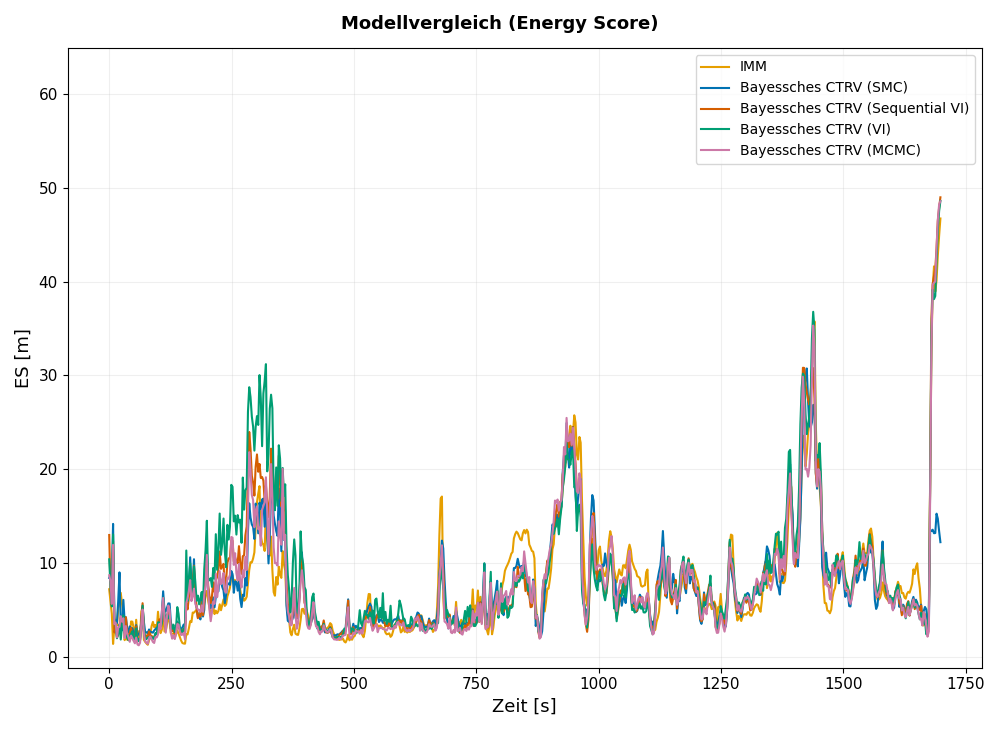
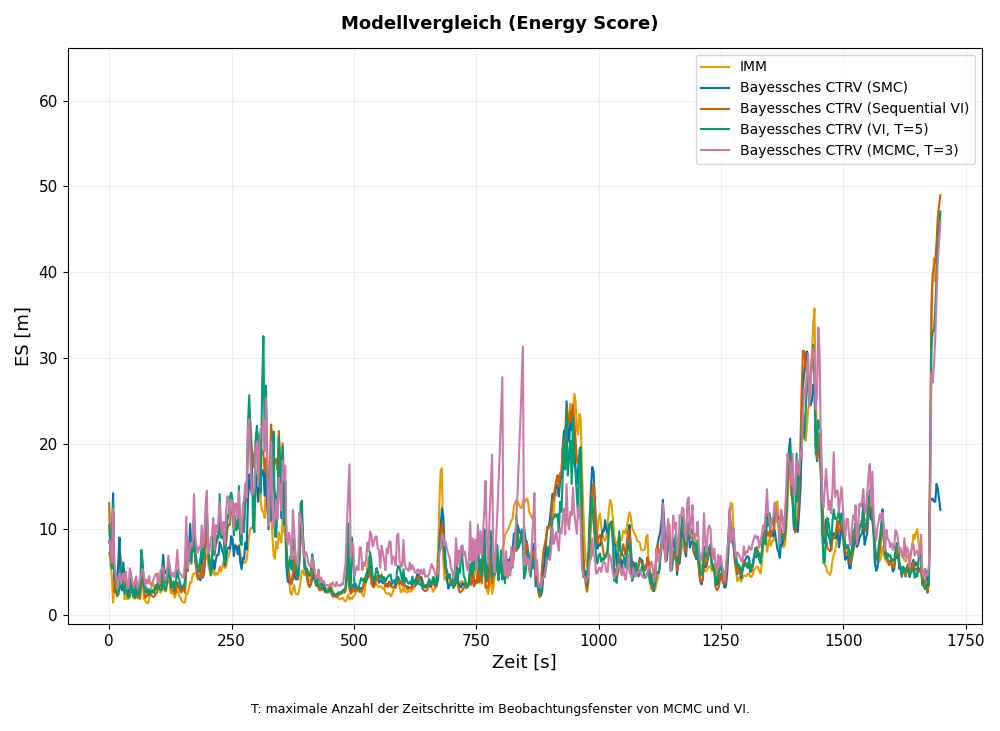
Add window-size explanations below comparison figures

diff --git a/src/bayestraj/validation/runtime_plotting.py b/src/bayestraj/validation/runtime_plotting.py
@@ -51,6 +51,10 @@ COMPARISON_PLOT_TEXT = {
         "nominal": "Sollwert: {percent}%",
         "metric": "Metrik",
         "summary": "Metrikübersicht",
+        "window_note": (
+            "T: maximale Anzahl der Zeitschritte im Beobachtungsfenster "
+            "von MCMC und VI."
+        ),
         "summary_note": (
             "Mittelwerte über gemeinsame Vorhersageursprünge.\n"
             "Coverage über alle zugeordneten Vorhersagepunkte."
@@ -65,6 +69,9 @@ COMPARISON_PLOT_TEXT = {
         "nominal": "Nominal {percent}%",
         "metric": "Metric",
         "summary": "Metric summary",
+        "window_note": (
+            "T: maximum number of time steps in the observation window of MCMC and VI."
+        ),
         "summary_note": (
             "Mean metrics over common forecast origins.\n"
             "Coverage over all matched forecast positions."
@@ -231,6 +238,8 @@ def plot_model_comparison(
         )
         for name in names
     ]
+    show_window_note = any("T=" in label for label in labels)
+    layout_rect = (0, 0.06, 1, 1) if show_window_note else None
     series = [_rolling_window_metric_series(table) for table in tables]
     elapsed = series[0][0] - series[0][0][0]
     style = RUNTIME_PLOT_STYLE
@@ -336,8 +345,12 @@ def plot_model_comparison(
             fontsize=style.title_font_size,
             fontweight=style.title_font_weight,
         )
-        figure.tight_layout()
-        _reserve_legend_headroom(figure, axis, legend)
+        if show_window_note:
+            figure.text(
+                0.5, 0.02, text["window_note"], ha="center", va="bottom", fontsize=9
+            )
+        figure.tight_layout(rect=layout_rect)
+        _reserve_legend_headroom(figure, axis, legend, layout_rect=layout_rect)
         if output_dir is not None:
             figure.savefig(output_dir / f"{name}.png", dpi=150, bbox_inches="tight")
         if show:
@@ -354,8 +367,13 @@ def plot_model_comparison(
         )
     summary = pd.DataFrame(rows)
     if show_summary_table:
+        summary_text = (
+            {**text, "summary_note": f"{text['summary_note']}\n{text['window_note']}"}
+            if show_window_note
+            else text
+        )
         figure, axis = _plot_comparison_summary_table(
-            summary, labels, text=text, title=title
+            summary, labels, text=summary_text, title=title
         )
         if output_dir is not None:
             figure.savefig(
@@ -638,7 +656,7 @@ def _plot_comparison_summary_table(
     return figure, axis
 
 
-def _reserve_legend_headroom(figure, axis, legend):
+def _reserve_legend_headroom(figure, axis, legend, *, layout_rect=None):
     """Keep the legend inside the axes and above the plotted data."""
     figure.canvas.draw()
     renderer = figure.canvas.get_renderer()
@@ -646,7 +664,7 @@ def _reserve_legend_headroom(figure, axis, legend):
     legend_height = legend.get_window_extent(renderer).height
     width, height = figure.get_size_inches()
     figure.set_size_inches(width, height + (legend_height + 2 * padding) / figure.dpi)
-    figure.tight_layout()
+    figure.tight_layout(rect=layout_rect)
 
     renderer = figure.canvas.get_renderer()
     plot_box = axis.get_window_extent(renderer)

diff --git a/tests/test_compare_bayesian_imm.py b/tests/test_compare_bayesian_imm.py
@@ -167,7 +167,11 @@ def test_configured_window_sizes_appear_in_curves_coverage_and_summary(
         for label in PLOT_MODEL_LABELS[plot_language]
     ]
     summary, figures = runtime_plotting.plot_model_comparison(
-        models, show=False, show_summary_table=True, plot_language=plot_language
+        models,
+        show=False,
+        show_summary_table=True,
+        plot_language=plot_language,
+        output_dir=tmp_path / "plots",
     )
     try:
         assert [line.get_label() for line in figures[0][1].lines[::2]] == expected
@@ -189,6 +193,28 @@ def test_configured_window_sizes_appear_in_curves_coverage_and_summary(
             assert bounds.contains(text_bounds.x1, text_bounds.y1)
         assert list(summary) == ["metric", *MODEL_DISPLAY_ORDER, "preferred"]
         assert summary.set_index("metric").loc["ade_m", "Bayesian CTRV (VI)"] == 7.0
+        note = (
+            "T: maximale Anzahl der Zeitschritte im Beobachtungsfenster von MCMC und VI."
+            if plot_language == "de"
+            else "T: maximum number of time steps in the observation window of MCMC and VI."
+        )
+        for figure, axis in figures:
+            captions = [text for text in figure.texts if note in text.get_text()]
+            assert len(captions) == 1
+            figure.canvas.draw()
+            renderer = figure.canvas.get_renderer()
+            caption_box = captions[0].get_window_extent(renderer)
+            assert figure.bbox.contains(caption_box.x0, caption_box.y0)
+            assert figure.bbox.contains(caption_box.x1, caption_box.y1)
+            if axis.axison:
+                for text in [axis.xaxis.label, *axis.get_xticklabels()]:
+                    if text.get_text():
+                        assert text.get_window_extent(renderer).y0 > caption_box.y1 + 2
+            else:
+                for cell in axis.tables[0].get_celld().values():
+                    assert cell.get_window_extent(renderer).y0 > caption_box.y1 + 2
+        assert (tmp_path / "plots/ade_m.png").is_file()
+        assert (tmp_path / "plots/metrics_summary.png").is_file()
     finally:
         for figure, _ in figures:
             plt.close(figure)

diff --git a/scripts/model_comparison/compare_bayesian_ctrv_imm.py b/scripts/model_comparison/compare_bayesian_ctrv_imm.py
@@ -19,7 +19,7 @@ BAYESIAN_MCMC_CSV = project_path("results/evaluation/bayesian_ctrv_mcmc_03.csv")
 SHOW_POINTS = False  # Mark forecast origins on metric curves.
 SHOW_MEAN_LINES = False  # Show mean metric values as dashed lines.
 SHOW_SUMMARY_TABLE = True  # Display all summary metrics in an additional table.
-METRIC_Y_SCALE = "linear"  # "linear" or "symlog" for metric curves.
+METRIC_Y_SCALE = "symlog"  # "linear" or "symlog" for metric curves.
 PLOT_LANGUAGE = "de"  # "de" or "en" for plot labels.
 
 
